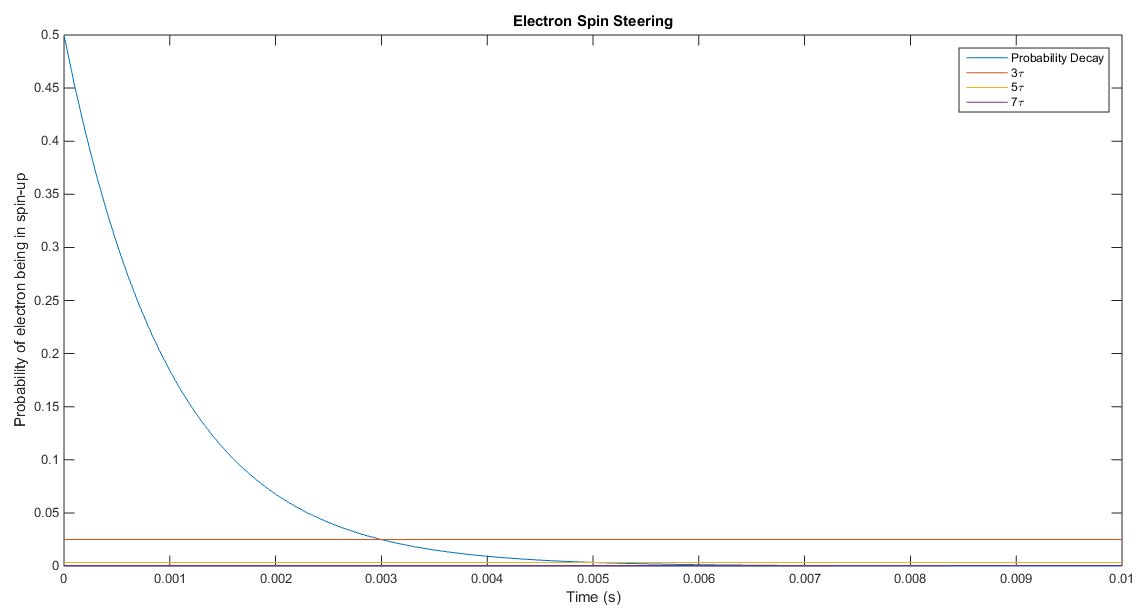
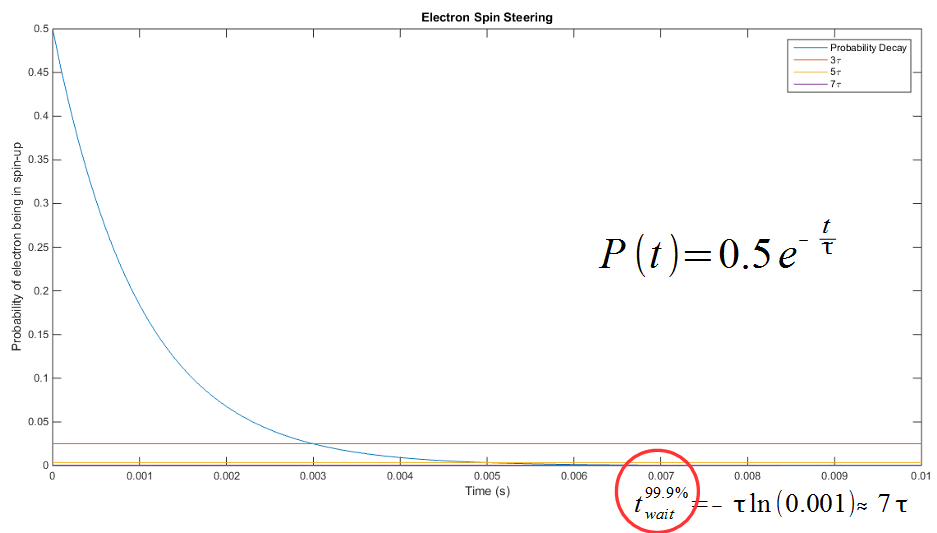
Finished explanation of spin steering.

diff --git a/src/literature_review.tex b/src/literature_review.tex
@@ -62,28 +62,51 @@ Recalling the Zeeman splitting energy (Section \ref{zeeman}) that is created thr
 
 \subsubsection{Electronic Spin Steering}
 
-\todo[inline]{Talk about electronic spin steering, either here or in experimental design}
+When the island is at the readout position, ideally a spin up electron would be able to tunnel off, and a spin down electron will be able to tunnel back on. However, due to the non-zero ambient temperature, we find that the Fermi distribution becomes bent, and there are allowable energy states below the Fermi level, and there are occupied states above the Fermi level. These are depicted in Figure \ref{fig::errors}, where the read error $(\alpha)$ indicates that we would read a blip in current incorrectly as a spin-up electron being present on the donor. Similarly, the load error $(\beta)$ is when an electron is allowed to tunnel onto the donor from the reservoir, and it is this error which I am trying to minimise. To understand how to minimise this error, we must understand the concept of electron spin steering.
+
 \begin{figure}[htbp!]
 	\centering
-	\includegraphics[width=\textwidth]{init_possibilities}
-	\caption{Possible intialization outcomes: Spin-down initialization is favourable, thus plots become decreasingly desirable from top to bottom}
-	\label{fig::init_possibilities}
+	\includegraphics[height=0.3\textheight]{readout_errors}
+	\caption{Load and read errors that occur when the \gls{set} is in the readout position.}
+	\label{fig::errors}
 \end{figure}
+
+
+Once the island has been shifted to the readout position, an electron does not simply tunnel off immediately. There is an average tunnel time associated with the characteristics of the tunnel junction, namely the tunnel resistance and the junction capacitance. The probability of an electron tunnelling through a tunnel junction exponentially decays over time, meaning it is more likely for an electron to leave sooner, rather than later. 
+Suppose the average tunnel time $(\tau)$ of an electron is 1 ms, and suppose we had an unknown spin loaded onto the donor, and we observed the state for a time much shorter than $\tau$, say 1 $\mu$s. If no tunnel event occurred, is this indicative that the electron was truly spin down? In actuality, we cannot be sure unless we were to wait for an infinite amount of time, but by waiting for a length of time T, we gradually gain more information about the system. If a tunnel event occurs, we know for that instance the electron was spin up, however if no tunnel event occurs, depending on the duration of T, we can be increasingly sure that it is spin down. This process is known as weak measurement, as we gradually gain more information about the system. Figure \ref{fig::spin_readout_decay} expresses this concept pictorially, after an arbitrary electron joins the donor, the current readout drops, though the probability of the electron being spin up is still 50\% due to the load error shown in figure \ref{fig::errors}, over time this decays to 0\%. 
+
+With this information, there are 3 possibilities in initializing a spin-qubit, which are shown in Figure \ref{fig::init_possibilities}. The bottom plot shows the worst case scenario, where the donor was plunged with no electron. This would result in a completely randomised spin, yielding unusable results. The middle plot shows an adequate amount of time between the plunge time and the last current blip, the most realistic case for improving spin initialization.
 
 \begin{figure}[htbp!]
 	\centering
 	\includegraphics[width=\textwidth]{spin_readout_decay}
 	\caption{Electronic Spin Steering}
-	\label{fig::electronic_spin_steering}
+	\label{fig::spin_readout_decay}
 \end{figure}
 
 \begin{figure}[htbp!]
 	\centering
-	\includegraphics[height=0.5\textheight]{readout_errors}
-	\caption{Load and read errors that occur when the \gls{set} is in the readout position}
-	\label{fig::errors}
+	\includegraphics[width=\textwidth]{init_possibilities}
+	\caption{Possible intialization outcomes: Spin-down initialization is favourable, thus plots become decreasingly desirable from top to bottom.}
+	\label{fig::init_possibilities}
 \end{figure}
 
+Figures \ref{fig::spin_steering} and \ref{fig::spin_steering_log} show the exponential decay function. Using this function, we can determine an adequate amount of time to wait to achieve a 99.9\% initialization fidelity will be $7 \tau$. For reference, $5 \tau$ and $3 \tau$ will yield an initialization fidelity of 99.7\% and 97.5\% respectively.
+
+\begin{figure}[htbp!]
+	\centering
+	\includegraphics[width=0.8\textwidth]{spin_steering}
+	\caption{Exponential decay of spin-up probability of an arbitrary electron after joining donor}
+	\label{fig::spin_steering}
+\end{figure}
+
+
+\begin{figure}[htbp!]
+	\centering
+	\includegraphics[width=0.8\textwidth]{spin_steering_log}
+	\caption{Close up of Figure \ref{fig::spin_steering}, semilog plot to show P versus multiples of $\tau$}
+	\label{fig::spin_steering_log}
+\end{figure}
 \subsubsection{Digital Feedback in Quantum Devices}
 
 \todo[inline]{Talk about the place of digital feedback in quantum systems}
